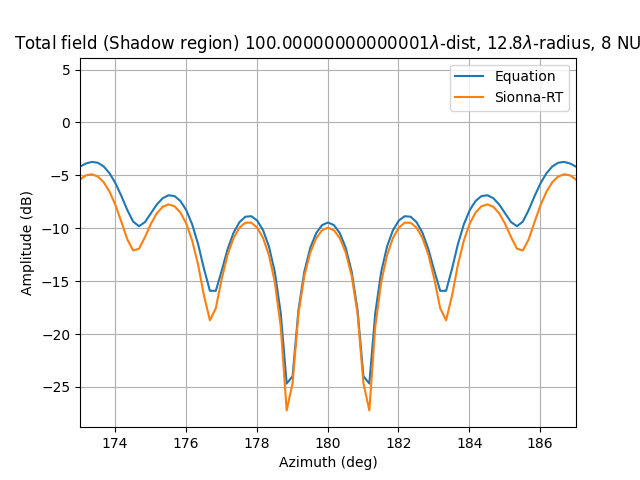
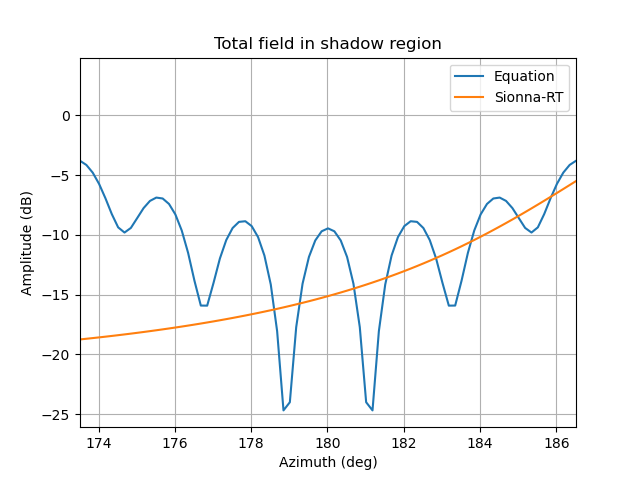
TX at differnt distances

diff --git a/simulate_dev.py b/simulate_dev.py
@@ -64,7 +64,7 @@ print(f"fc: {fc}")
 print(f"lamda: {lamda}")
 
 cylinder_radius_lamda = 12.8
-nu = 8
+nu = 12
 
 cylinder_radius = cylinder_radius_lamda * lamda
 print(f"cylinder_radius: {cylinder_radius}")
@@ -110,6 +110,9 @@ scene.rx_array = PlanarArray(num_rows=1,
 
 D = cylinder_radius
 tx_dist = 2*((D*2)**2)/lamda + D # TX must be in Frahofer zone
+#tx_dist = 1e6
+
+#tx_dist = 1e3
 
 source_point = np.array([tx_dist, 0.0, 0.0])
 
@@ -155,7 +158,9 @@ RMSE_result = []
 
 #=========================================== SIMULATION =====================================================#
 
-circle_radius = cylinder_radius + lamda*np.array([100,200,300,500,1500,2e3, 5e3, 10e3, 20e3])
+circle_radius = cylinder_radius + lamda*np.array([0.5, 1, 2, 10, 100, 1e3, 10e3])
+#circle_radius = cylinder_radius + lamda*np.array([0.5, 1, 1.5, 2])
+
 
 results = []
 analytical = []
@@ -221,9 +226,12 @@ for circle_radius_i in circle_radius:
     a, tau = paths.cir()
     path_amplitudes = a[0,:,0,0,0,:,0]
     receiver_amplitudes_los = np.abs(np.sum(path_amplitudes, axis=1)) #/ lamda
+    
+    los_line_idx = np.where(receiver_amplitudes_los <= 1e-9)[0][0], np.where(receiver_amplitudes_los <= 1e-9)[0][-1] #first and last index of the shadow region
+    #field_los_full = np.where(receiver_amplitudes_los <= 0.0, field_los_full, receiver_amplitudes_los) + 1e-6
 
-    los_line_idx = np.where(receiver_amplitudes_los <= 1e-6)[0][0], np.where(receiver_amplitudes_los <= 1e-6)[0][-1] #first and last index of the shadow region
-    field_los_full = np.where(receiver_amplitudes_los <= 0.0, field_los_full, receiver_amplitudes_los) + 1e-6
+    field_los_full = np.where(receiver_amplitudes_los <= 0.0, field_los_full, receiver_amplitudes_los) + 1e-9
+        
     if pol == 'VV':
         field_los_full = -field_los_full
         
@@ -259,7 +267,11 @@ for circle_radius_i in circle_radius:
     #== Calculating the ANALYTIC SCATTERED FILED (Plane wave incidence)
     
     from sionna.rt.analytical_equations import cylinder_te_inc_scat_total, cylinder_tm_inc_scat_total
-    	
+
+    print(theta_arr)
+    print(cylinder_radius)
+    print(circle_radius_i)
+    
     if pol == 'HH':
     	u_inc, an_scattering, an_total = cylinder_te_inc_scat_total(theta_arr, cylinder_radius, circle_radius_i, 2*np.pi / lamda, terms=512)
     elif pol == 'VV':
@@ -345,7 +357,7 @@ for circle_radius_i in circle_radius:
                                 reflection = False,
                                 diffraction = True,
                                 vertex_diffraction = False,
-                                double_diffraction = False)
+                                double_diffraction = True)
     
     a, tau = paths.cir()
     #a.shape   # [batch_size, num_rx, num_rx_ant, num_tx, num_tx_ant, max_num_paths, num_time_steps]
@@ -371,7 +383,8 @@ for circle_radius_i in circle_radius:
     
     plt.figure()
     fig, ax = plt.subplots()
-    plt.title(rf"Total field (Shadow region) {r/lamda}$\lambda$-dist, {cylinder_radius_lamda}$\lambda$-radius, {nu} NU")
+    #plt.title(rf"Total field (Shadow region) {r/lamda}$\lambda$-dist, {cylinder_radius_lamda}$\lambda$-radius, {nu} NU")
+    plt.title(rf"Total field in shadow region")
     plt.plot(57.3*theta_arr, 20*np.log10(np.abs(an_total)), label='Equation')
     plt.plot(57.3*theta_arr, 20*np.log10(coef*receiver_amplitudes), label='Sionna-RT')
 #    plt.plot(57.3*theta_arr, 20*np.log10(coef*receiver_amplitudes_), 'b--', label='RT')

diff --git a/simulate_loop.py b/simulate_loop.py
@@ -60,11 +60,8 @@ print("\n==== SIMULATION PARAMETERS ===")
 print(f"fc: {fc}")
 print(f"lamda: {lamda}")
 
-#CYLINDER_RADIUS_LAMDA_list = [10, 12.8, 15.9, 19, 22.3, 25.6]
-#NU_list = [6, 8, 12, 17]
-
-CYLINDER_RADIUS_LAMDA_list = [25.6]
-NU_list = [12]
+CYLINDER_RADIUS_LAMDA_list = [10, 12.8, 15.9, 19, 22.3, 25.6]
+NU_list = [6, 8, 12, 17]
 
 for cylinder_radius_lamda in CYLINDER_RADIUS_LAMDA_list: 
 
@@ -77,7 +74,7 @@ for cylinder_radius_lamda in CYLINDER_RADIUS_LAMDA_list:
 
         #print(f"cylinder_radius: {cylinder_radius}")
 
-        scene = load_scene(f"./models/cylinder_{cylinder_radius_lamda}_lamda/long/cylinder_{nu}/cylinder_{nu}.xml", dtype)
+        scene = load_scene(f"./models/cylinder_{cylinder_radius_lamda}_lamda/short/cylinder_{nu}/cylinder_{nu}.xml", dtype)
         #scene = load_scene(sionna.rt.scene.cylinder_12, dtype)
         
 
@@ -110,7 +107,8 @@ for cylinder_radius_lamda in CYLINDER_RADIUS_LAMDA_list:
 
 
         D = cylinder_radius
-        tx_dist = 2*((2*D)**2)/lamda + D
+        #tx_dist = 2*((2*D)**2)/lamda + D
+        tx_dist = 10e6
         source_point = np.array([tx_dist, 0.0, 0.0])
 
         tx = Transmitter(name="tx", position=source_point, dtype=dtype)
@@ -219,8 +217,8 @@ for cylinder_radius_lamda in CYLINDER_RADIUS_LAMDA_list:
             path_amplitudes = a[0,:,0,0,0,:,0]
             receiver_amplitudes_los = np.abs(np.sum(path_amplitudes, axis=1)) #/ lamda
 
-            los_line_idx = np.where(receiver_amplitudes_los <= 1e-6)[0][0], np.where(receiver_amplitudes_los <= 1e-6)[0][-1] #first and last index of the shadow region
-            field_los_full = np.where(receiver_amplitudes_los <= 0.0, field_los_full, receiver_amplitudes_los) + 1e-6
+            los_line_idx = np.where(receiver_amplitudes_los <= 1e-9)[0][0], np.where(receiver_amplitudes_los <= 1e-9)[0][-1] #first and last index of the shadow region
+            field_los_full = np.where(receiver_amplitudes_los <= 0.0, field_los_full, receiver_amplitudes_los) + 1e-9
             if pol == 'VV':
                 field_los_full = -field_los_full
                 

diff --git a/stl_files/trimesher.py b/stl_files/trimesher.py
@@ -2,11 +2,11 @@
 
 import trimesh
 
-cylinder_radius_lamda_list = [25.6]
+cylinder_radius_lamda_list = [12.8]
 nu = 12
 
 for cylinder_radius_lamda in cylinder_radius_lamda_list:
-    mesh = trimesh.load(f"./cylinder_{cylinder_radius_lamda}_stl_files/long/cylinders_{nu}.stl")
+    mesh = trimesh.load(f"./cylinder_{cylinder_radius_lamda}_stl_files/long long/cylinders_{nu}.stl")
 
     if 'stl' in mesh.metadata:
         del mesh.metadata['stl']
